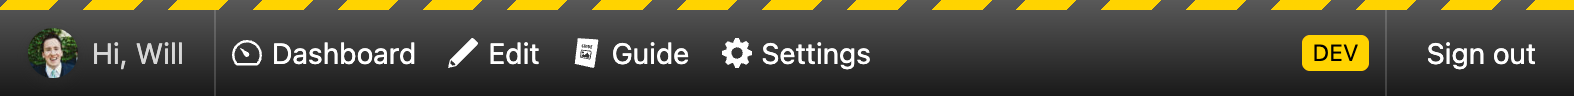
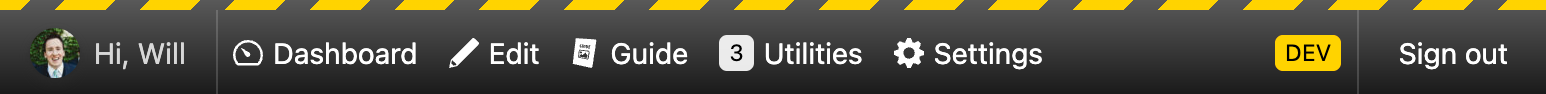
feat: added utilities link

diff --git a/src/assetbundles/dist/assets/admin-bar-MwBMXjg6.css b/src/assetbundles/dist/assets/admin-bar-MwBMXjg6.css
@@ -1,0 +1,1 @@
+@layer admin-bar{admin-bar{--admin-bar-bg:linear-gradient(to bottom,#000000a6,#000000e6);--admin-bar-backdrop-filter:blur(20px)saturate(200%);--admin-bar-color-highlight:oklch(.6 .4 83);--admin-bar-color-highlight-logout:var(--admin-bar-color-highlight);--admin-bar-color-text:#fffc;--admin-bar-font-stack:system-ui,sans-serif;--admin-bar-font-size:.9rem;--admin-bar-avatar-size:25px;--admin-bar-height:43px;--admin-bar-environment-bg:repeating-linear-gradient(-45deg,var(--admin-bar-environment-bg-color),var(--admin-bar-environment-bg-color)18px,transparent 18px,transparent 30px);--admin-bar-environment-bg-color:oklch(.9 .4 98);--admin-bar-environment-height:5px;--admin-bar-transition-duration:.3s;--admin-bar-shadow-elements:0 1px 2px color-mix(in srgb,#00000080,currentColor 10%),0 3px 6px color-mix(in srgb,#0006,currentColor 10%);--admin-bar-button-color-bg:transparent;--admin-bar-button-color-bg-hover:var(--admin-bar-button-color-text,white);--admin-bar-button-color-text:#fff;--admin-bar-text-padding:0 clamp(4px,1vw,13px);--admin-bar-text-label-color-bg:#ffffffe6;--admin-bar-text-label-color-text:#000;--environment-height:0px;width:var(--admin-bar-width,100%);height:calc(var(--admin-bar-height,43px) + var(--environment-height));display:block}admin-bar[show-environment]{--environment-height:var(--admin-bar-environment-height)}admin-bar.rtl{direction:rtl}admin-bar.fixed{z-index:var(--admin-bar-z-index,1);position:fixed;left:0;right:0}admin-bar.fixed:not(.bottom){top:0}admin-bar.sticky{z-index:var(--admin-bar-z-index,1);position:sticky;left:0;right:0}admin-bar.sticky:not(.bottom){top:0}admin-bar.bottom{bottom:0;left:0;right:0}admin-bar:not(:defined){background:var(--admin-bar-bg);opacity:.75}admin-bar:not(:defined) *{display:none}@media (prefers-reduced-motion){admin-bar{--admin-bar-transition-duration:0s}}}

diff --git a/src/assetbundles/dist/assets/admin-bar-2j0gsJup.js b/src/assetbundles/dist/assets/admin-bar-2j0gsJup.js
@@ -220,7 +220,7 @@
       flex-wrap: nowrap;
       gap: 5px;
       align-items: center;
-      padding: 0 clamp(4px, 1vw, 13px);
+      padding: var(--admin-bar-text-padding, 0 clamp(4px, 1vw, 13px));
       height: var(--admin-bar-height, 43px);
       background-color: var(--admin-bar-text-color-bg, transparent);
       font-size: var(--font-size);

diff --git a/src/services/Bar.php b/src/services/Bar.php
@@ -10,6 +10,7 @@
 
 namespace wbrowar\adminbar\services;
 
+use craft\base\UtilityInterface;
 use craft\helpers\Html;
 use wbrowar\adminbar\AdminBar;
 
@@ -86,6 +87,15 @@ class Bar extends Component
             $config['useCss'] = key_exists('useCss', $config) ? $config['useCss'] : true;
             $config['useJs'] = key_exists('useJs', $config) ? $config['useJs'] : true;
 
+            // Get utilities notification count
+            $config['utilitiesNotificationCount'] = 0;
+            $userUtilities = Craft::$app->getUtilities()->getAuthorizedUtilityTypes();
+            if (!empty($userUtilities)) {
+                foreach ($userUtilities as $userUtility) {
+                    $config['utilitiesNotificationCount'] += $userUtility::badgeCount();
+                }
+            }
+
             // Add config file settings to config
             $config['additionalLinks'] = $settings->additionalLinks;
             $config['displayDashboardLink'] = $settings->displayDashboardLink;
@@ -93,6 +103,7 @@ class Bar extends Component
             $config['displayGreeting'] = $settings->displayGreeting;
             $config['displayLogout'] = $settings->displayLogout;
             $config['displayGuideLink'] = $settings->displayGuideLink;
+            $config['displayUtilitiesLink'] = $settings->displayUtilitiesLink && !empty($userUtilities);
             $config['displaySettingsLink'] = $settings->displaySettingsLink && Craft::$app->getConfig()->getGeneral()->allowAdminChanges;
 
             $oldMode = Craft::$app->getView()->getTemplateMode();

diff --git a/src/twigextensions/AdminBarTwigExtension.php b/src/twigextensions/AdminBarTwigExtension.php
@@ -139,6 +139,14 @@ class AdminBarTwigExtension extends \Twig\Extension\AbstractExtension
                     height: auto;
                 }
             }
+            admin-bar-button {
+                &:hover {
+                    & admin-bar-text {
+                        --admin-bar-text-label-color-bg: var(--admin-bar-color-highlight);
+                        --admin-bar-text-label-color-text: var(--admin-bar-button-color-bg-hover);
+                    }
+                }
+            }
         }' . "\n" . ($settings['customCss'] ?? '');
     }
 

diff --git a/src/models/Settings.php b/src/models/Settings.php
@@ -91,6 +91,13 @@ class Settings extends Model
     public bool $displayLogout = true;
 
     /**
+     * Adds the Utilities link to Admin Bar.
+     *
+     * @var bool
+     */
+    public bool $displayUtilitiesLink = true;
+
+    /**
      * Adds the Settings link to Admin Bar.
      *
      * @var bool

diff --git a/src/config.php b/src/config.php
@@ -27,6 +27,7 @@ return array(
     'displayDashboardLink' => true,
     'displayDefaultEditSection' => true,
     'displayGuideLink' => true,
+    'displayUtilitiesLink' => true,
     'displaySettingsLink' => true,
     'displayLogout' => true,
 );

diff --git a/CHANGELOG.md b/CHANGELOG.md
@@ -4,11 +4,19 @@ All notable changes to this project will be documented in this file.
 
 The format is based on [Keep a Changelog](http://keepachangelog.com/) and this project adheres to [Semantic Versioning](http://semver.org/).
 
+## 4.2.0 - 2024-01-25
+### Added
+- Link to Utilities page with a badge label showing number of utilities notifications.
+- Added config option to disable Utilities link.
+
+- ### Changed
+- Upgraded to [Admin Bar Component](https://github.com/wbrowar/admin-bar-component) **1.0.1** and updated dependencies
+
 ## 4.1.0 - 2024-01-14
 ### Added
 - Added `textElements` setting for the `{{ adminBar() }}` method, letting you add text elements and labels to Admin Bar.
 - Added a text element label to indicate the current environment when `devMode` is enabled.
-- Added an option to `adminBarCssFile()` and `adminBarJsFile()` Twig methods that lets you output the contents of the file, instead of getting the cpresources URL. 
+- Added an option to `adminBarCssFile()` and `adminBarJsFile()` Twig methods that lets you output the contents of the file, instead of getting the cpresources URL.
 
 ### Changed
 - Upgraded to [Admin Bar Component](https://github.com/wbrowar/admin-bar-component) **1.0.0**
